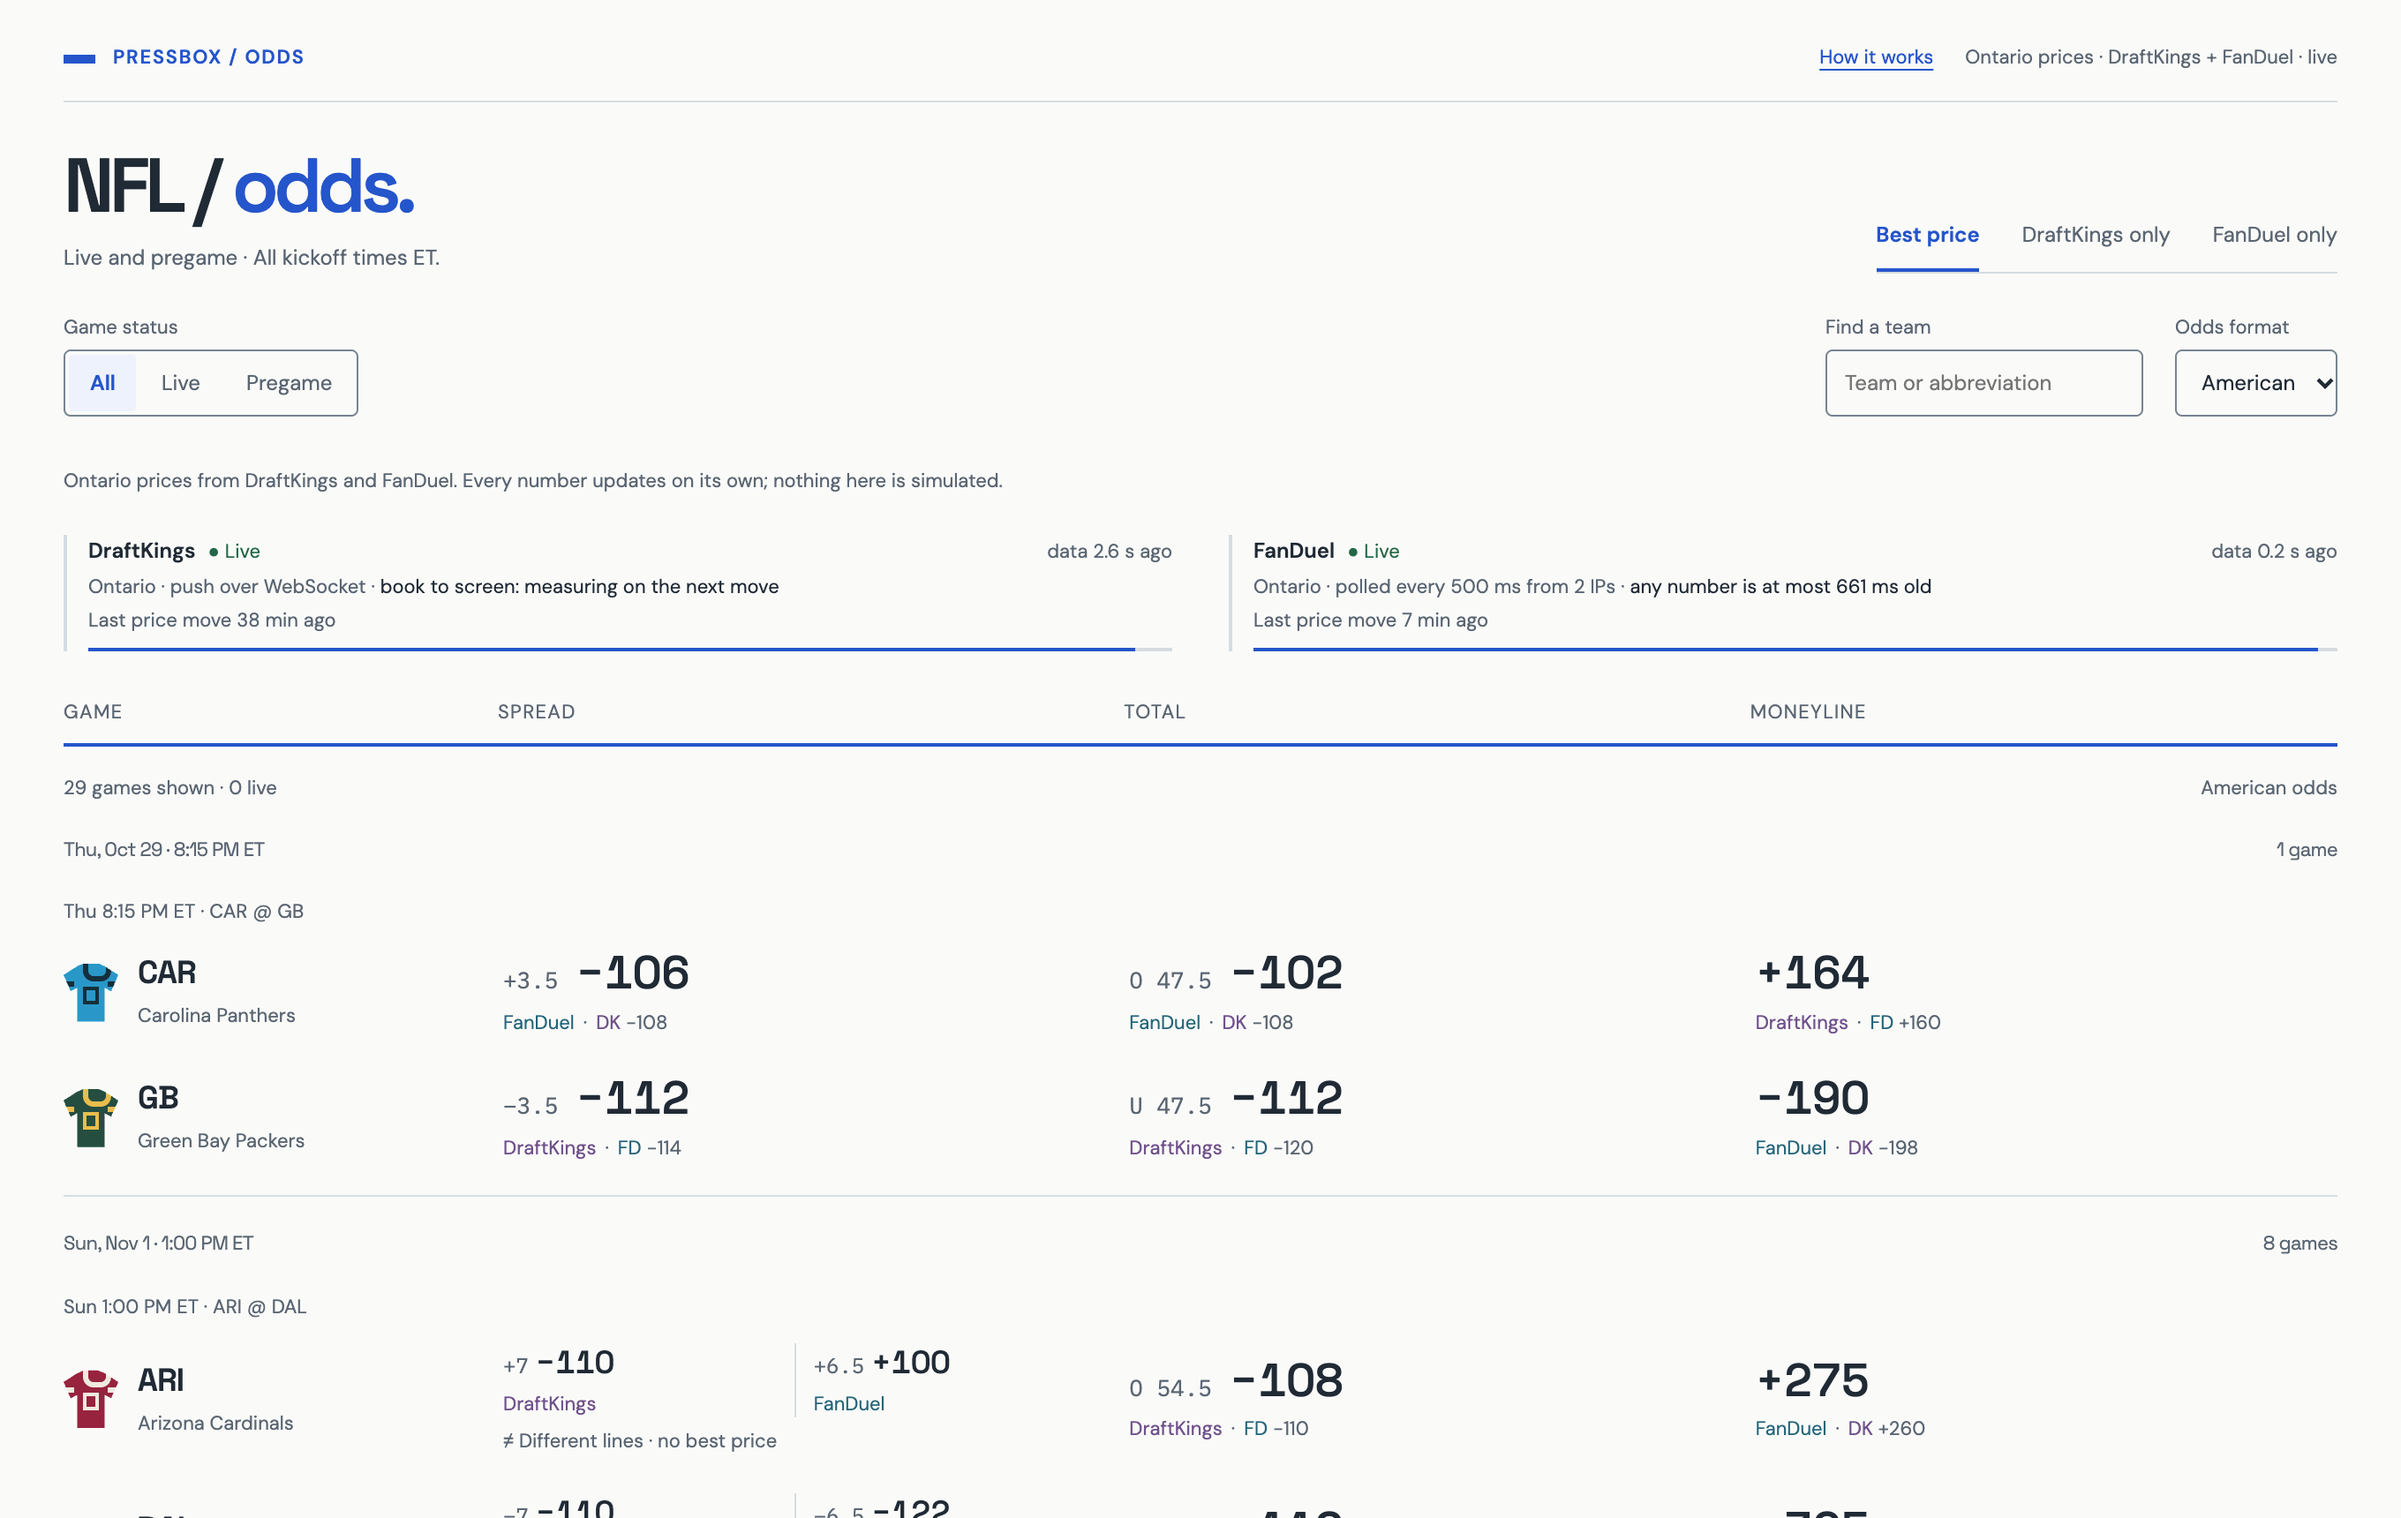
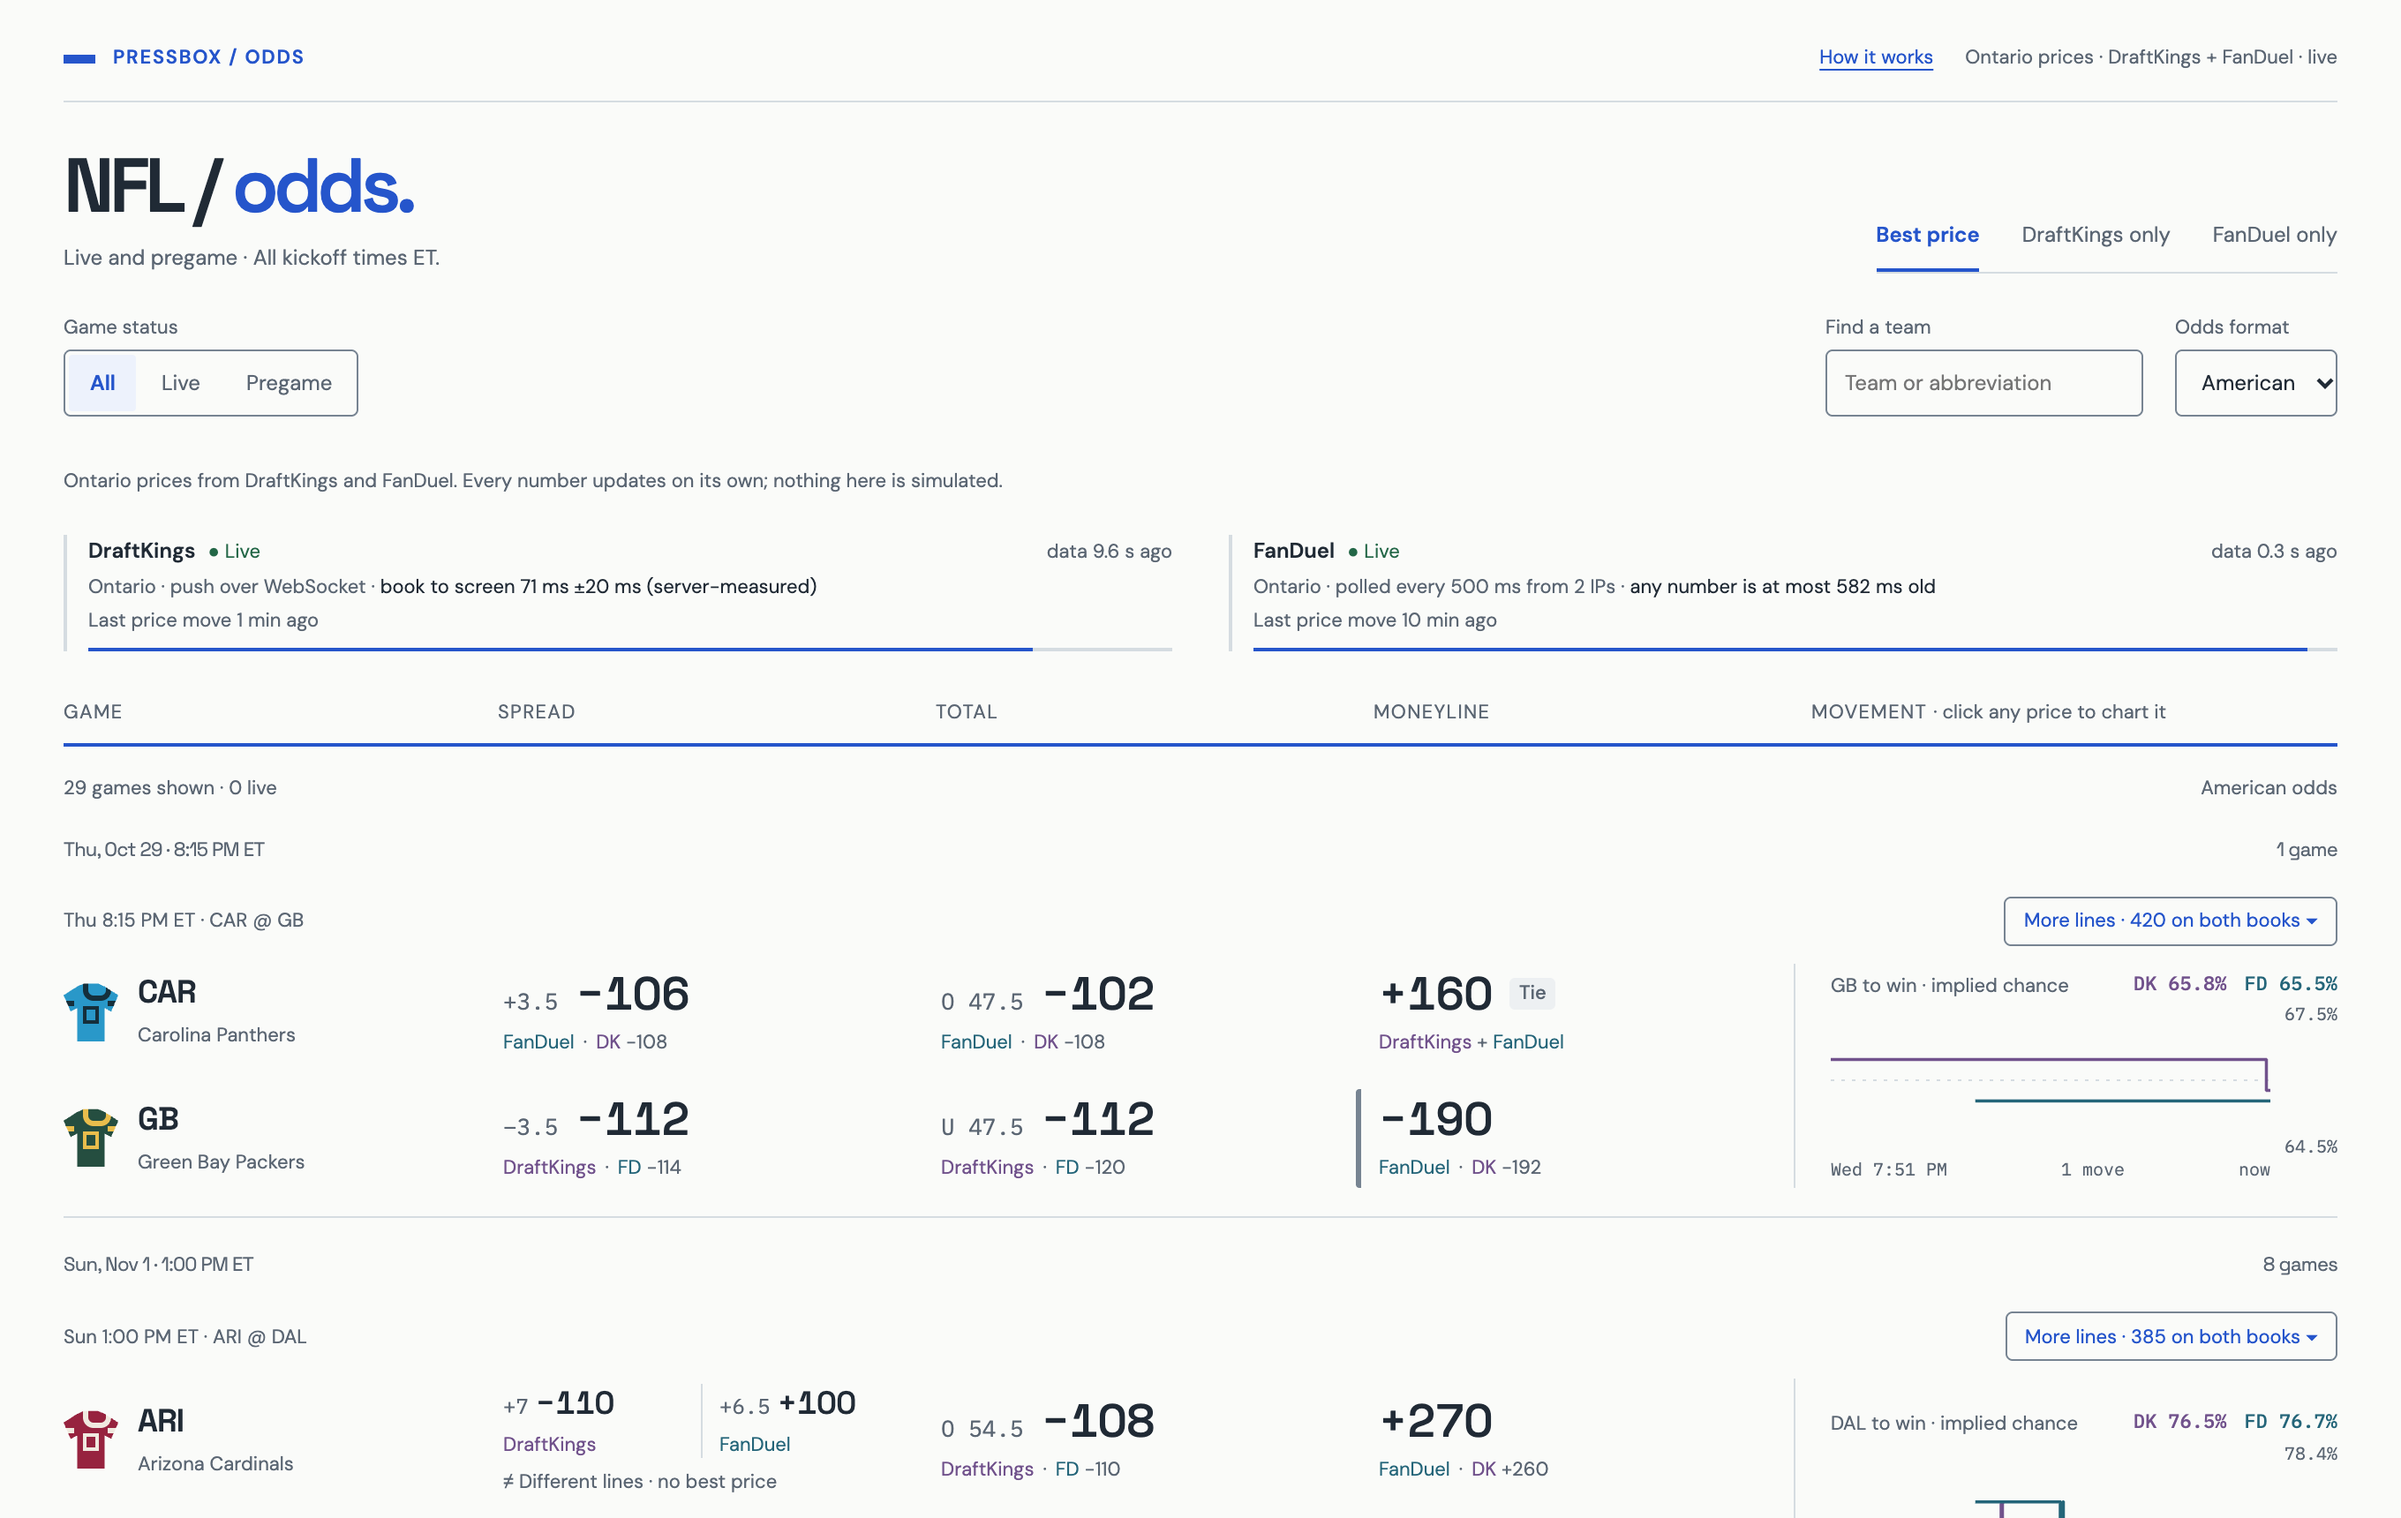
README: More lines (where each book publishes alt lines and props, cadence, matching), live check 2,001/2,001 prop prices identical to both books, side-by-side 174/174 on the board; tools/check-extras.mjs; new screenshot
Claude-Session: https://claude.ai/code/session_01H1YqGmVDtb9638AkYcAarz

diff --git a/README.md b/README.md
@@ -9,6 +9,11 @@ browser without a refresh. Toggle at the top: **Best price / DraftKings only / F
 ![board](docs/board.png)
 
 What is on the page, beyond the board itself:
+* **More lines** on every game — alternate spreads and totals, anytime touchdown scorer, and passing / rushing /
+  receiving yards and receptions milestones (e.g. "Josh Allen 250+ passing yards"), both books side by side, best
+  price only where both books offer the exact same line and player (§3, "More lines").
+* **A movement chart** per game in the space beside the prices: each book's implied chance over the last 48 h (a live
+  game: since kickoff). Click any price to chart it. History is one point per real change, kept in Redis across restarts.
 * **The wire** — the latest price and line changes as they happen (old → new, which book, how long ago).
 * **A moved price flashes** green/red and keeps its old value struck through beside it for a few seconds.
 * **Per-book feed cards** — how the book is read (push vs poll), a freshness bar that drains as data ages, last
@@ -129,6 +134,25 @@ machine (§6, another IP) to poll the same 87 markets; the edge sends back only 
 server applies a market only if that poll *started* later than the newest poll already applied to it, so a slow answer
 can never overwrite a fresher one. Measured: a fresh FanDuel answer every **523 ms** (median), was 1,000 ms. If the edge
 goes away, FanDuel simply falls back to the 1 s beat.
+
+### More lines: alternate lines and player props, both books
+Found the same way (recording each book's game pages tab by tab):
+
+| | DraftKings | FanDuel |
+| --- | --- | --- |
+| Where | league-level subcategories: 13195 alt spread, 13196 alt total, 12438 TD scorers, 16569/16571/16570 passing/rushing/receiving yards milestones, 16821 receptions milestones | only on each game's own page: `api/event-page?eventId=…&tab=popular` → `ALTERNATE_HANDICAP`, `ALTERNATE_TOTAL`, `ANY_TIME_TOUCHDOWN_SCORER`, `PLAYER_X_ALT_{PASSING,RUSHING,RECEIVING}_YARDS_*`, `PLAYER_X_ALT_RECEPTIONS_*` |
+| Snapshot | same REST as game lines, one subcategory at a time; from the edge (cloud IPs refused), each every ~2 min, trimmed to the fields we read | one game page per game every 10 min, from the cloud |
+| Updates | its **own** push socket, one subscription per subcategory | `getMarketPrices`, 50 markets per request, at most one request a second: every **3 s** for games someone has open, every 60 s otherwise; pauses itself 5 min on 403/429 so it can never cost the main board its rate budget |
+
+Matching: an alt line is (game, side, number); a prop is (game, player, threshold). DraftKings sells yardage as
+milestones ("250+") and so does FanDuel's "alt" ladder ("Josh Allen 250+ Yards"), so they compare exactly where the
+thresholds coincide (DK 250+ vs FD 250+); DK 260+ or FD 275+ are shown for that book only, never ranked. Players are
+matched on a normalised name ("Kenneth Walker III" = "Kenneth Walker", "D.J. Moore" = "DJ Moore"). DraftKings' 1st-TD
+and 2+ TD markets live in the same subcategory and are filtered out. Ranking uses the same `compare()` as the board.
+Everything sits in its own store, workers and **one stream per open game** (`/api/extras/stream?game=`), so ~7,500
+prop prices never touch the main board's stream. Checked live (`tools/check-extras.mjs`): BAL@BUF and KC@DEN, every
+price on the board identical to what each book served at that moment (2,001 prices, 0 different, 0 missing), with
+801 bets priced by both books.
 
 ### Same jurisdiction for both books: Ontario
 Both books run a separate site per jurisdiction, and prices can differ between them. DraftKings only lets us in from
@@ -274,7 +298,7 @@ poll faster where there is no push, keep connections open, don't wait to batch, 
 
 ## 9. Tests and health checks
 
-`npm test` (also on every push, GitHub Actions) — 36 tests, ~6 s, no network needed:
+`npm test` (also on every push, GitHub Actions) — 43 tests, ~6 s, no network needed:
 * **Model:** team-name matching across books, game date for late kickoffs, unicode-minus odds, best price (higher odds,
   tie, different lines = no winner, suspended excluded) and `compare()` — the exact function the page uses (best, tie,
   different lines, only-available, nothing eligible).
@@ -291,6 +315,13 @@ poll faster where there is no push, keep connections open, don't wait to batch, 
 * **FanDuel, on real recorded payloads:** props ignored, in-place line move via `handicap`, suspended runner, game turns
   live. Against a **fake FanDuel:** one request for all markets on a ~100 ms beat; 429 → backs off (honours
   `Retry-After`), shows the error, does not hammer, recovers.
+* **More lines, on real recorded payloads from both books** (`test/fixtures/extras-*.json`, recorded with
+  `tools/record-extras-fixtures.mjs`): the same bet from both books lands on one row (BAL −3.5, Derrick Henry anytime
+  TD, Josh Allen 250+), DK 260+ / FD 275+ stay single-book, the 1st-TD market is not mixed in, player names match
+  across suffixes and dots, a DK socket frame moves a prop, a selection missing from the next snapshot is dropped,
+  FanDuel suspension is shown, and FanDuel polls open games every 3 s and the rest every 60 s, ≤ 50 markets a request.
+* **Price history:** one point per real change, restored after a restart, and charted from the price in force at the
+  window start.
 * **Black box:** the real server process against a fake FanDuel and a relay client — a FanDuel change reaches an SSE viewer
   within one poll; a DK snapshot relayed from an edge fills the board and reaches viewers at once; wrong relay tokens are refused; DK going quiet → DK
   stale, FanDuel unaffected; FanDuel failing → FanDuel stale with its last prices kept; recovery on its own; the
@@ -329,12 +360,11 @@ runs under a restart-on-exit supervisor.
 | Show the odds moving (flash / previous price) | Yes — green/red flash + struck-through previous value for 8 s + line-move notice + the wire |
 | Show latency on the page, per book | Yes — feed cards: freshness bar, data age, measured book→screen (DK) and worst-case age (FD) |
 | Reconnects, retries, and a UI that says data is stale | Yes — backoff reconnects, re-snapshot, stale flag + banner + greyed prices; browser reconnects with a new snapshot |
-| Props, alt lines, other leagues | Not built. Both feeds expose them (DK other subcategories, FD other market types / `customPageId`); the adapters take a league id and market map, so NBA is a config change plus a team table. |
+| Props, alt lines, other leagues | **Alt lines + player props: yes** — alt spreads/totals, anytime TD, yardage and reception milestones from both books, compared on the same number (§3). Other leagues: not built; the adapters take a league id and market map, so NBA is a config change plus a team table. |
 | What changes for a third book, or ten; where AI helps | §11 |
 
 ## 13. With more time
 * **A residential/ISP proxy instead of a laptop** for the edge's two jobs (DK snapshot once per 30 s, FanDuel's second
   poller). Nothing on DraftKings' price path depends on it any more.
 Residential/ISP egress (or a licensed-region VM) for DK instead of an edge laptop; a push chart to rank unlike lines;
-props/alt lines (both feeds already expose them under other subcategories/market types); line-history persistence;
-Prometheus metrics; a test suite around the two decoders using the recorded fixtures in `research/`.
+over/under player props (FanDuel has them, DraftKings Ontario only sells milestones), other leagues; Prometheus metrics.
